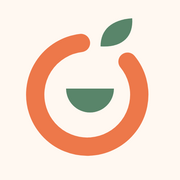
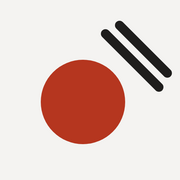
ロゴを「朱の器と墨の箸」にする
Claude-Session: https://claude.ai/code/session_016xSGxBShBZZJdN6qwtUe1a

diff --git a/src/components/ui.tsx b/src/components/ui.tsx
@@ -6,19 +6,18 @@ import clsx from "clsx";
 import { X } from "lucide-react";
 
 export function BrandMark({ className }: { className?: string }) {
-  // めぐる輪（主色）と、器・芽（葉の緑）。色は配色トークンに追従してライト/ダークで切り替わる
+  // 上から見た朱の器と墨の箸。色は配色トークンに追従してライト/ダークで切り替わる
   return (
     <svg viewBox="0 0 512 512" className={className} aria-hidden>
       <rect width="512" height="512" rx="128" fill="var(--surface)" />
+      <circle cx="236" cy="290" r="120" fill="var(--accent)" />
       <path
-        d="M362.7 175.4A148 148 0 1 1 230.3 122.2"
+        d="M300 96L452 248M340 72L476 208"
         fill="none"
-        stroke="var(--accent)"
-        strokeWidth="52"
+        stroke="var(--leaf)"
+        strokeWidth="26"
         strokeLinecap="round"
       />
-      <path d="M286 132C286 84 318 56 376 52C380 106 346 136 286 132Z" fill="var(--leaf)" />
-      <path d="M188 252h136a68 68 0 0 1 -136 0z" fill="var(--leaf)" />
     </svg>
   );
 }

diff --git a/src/app/globals.css b/src/app/globals.css
@@ -14,7 +14,7 @@
   --accent-text: #b5361f;
   --accent-ink: #ffffff;
   --accent-soft: #f6e0db;
-  /* ロゴの墨色 */
+  /* ロゴの箸（墨） */
   --leaf: #1f1e1d;
   --morning: #9a6a00;
   --morning-soft: #f8efd9;
